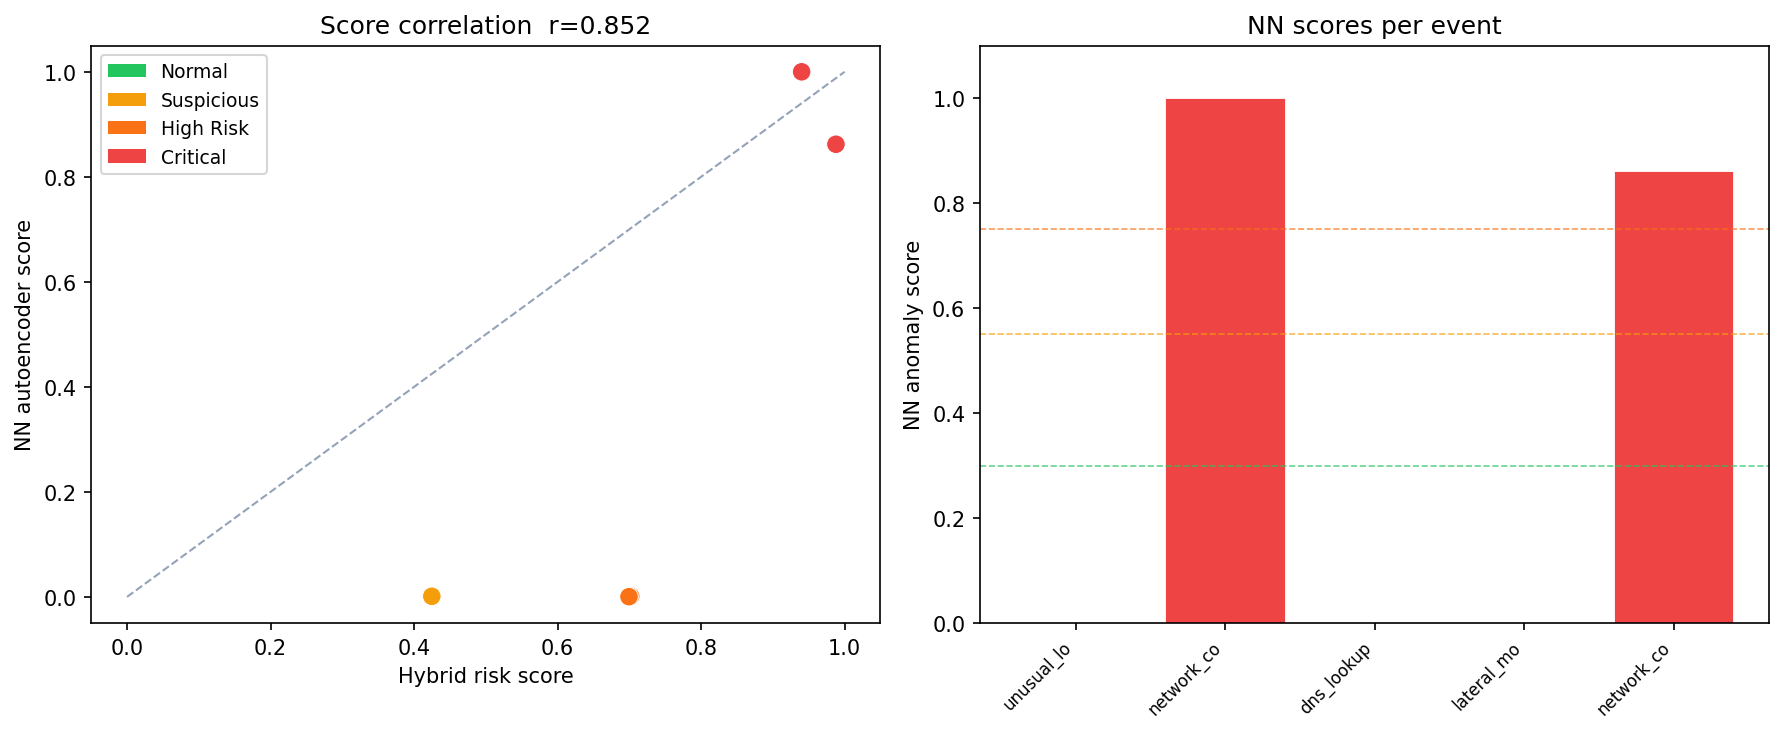
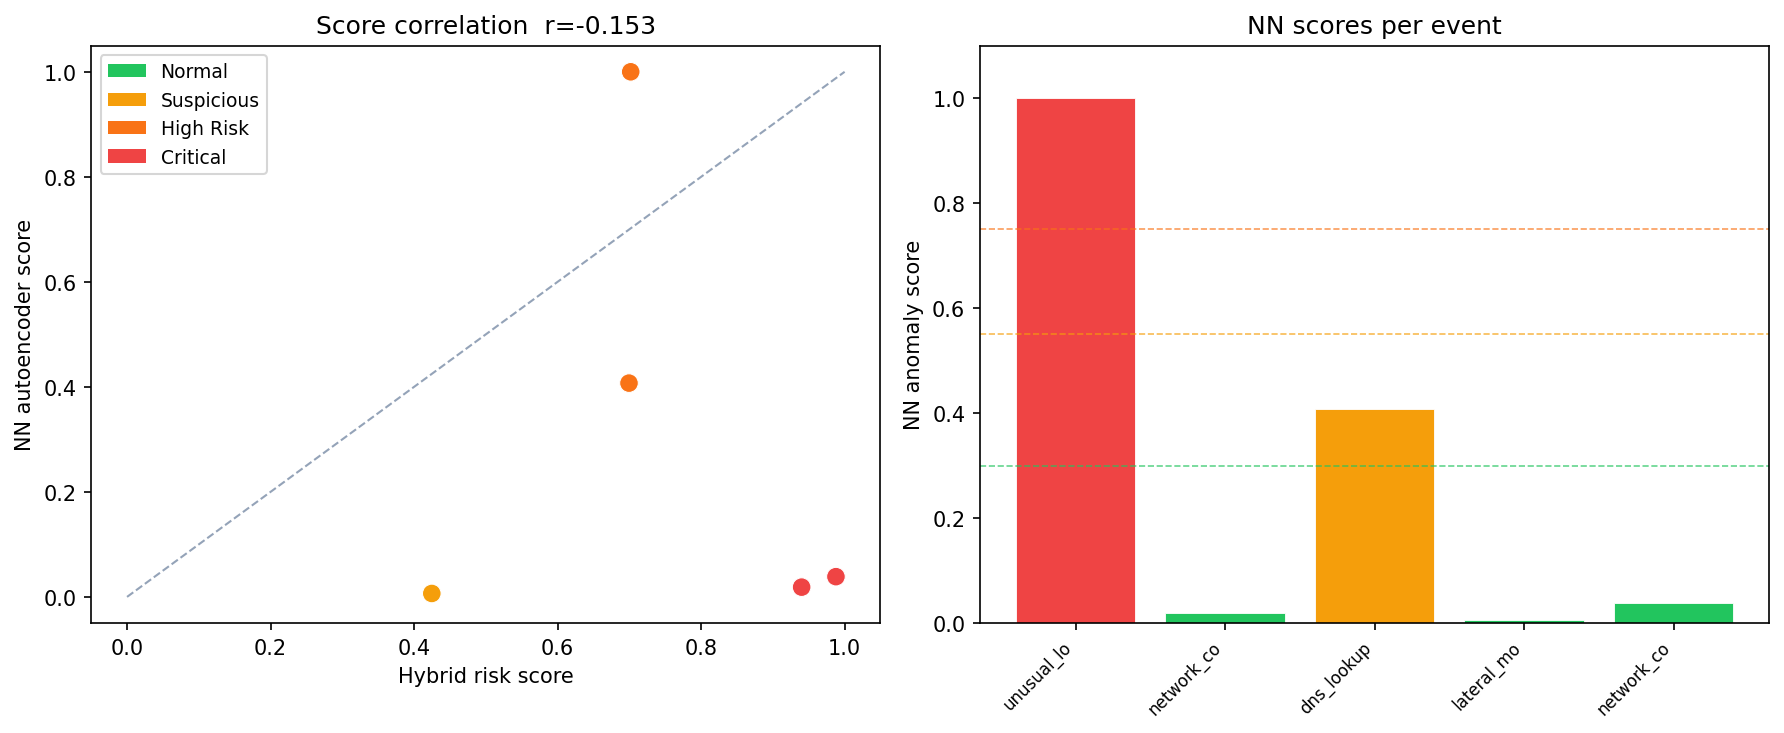
neural network model for network done

diff --git a/pirateshield/scripts/network_model/neural_network_validator.py b/pirateshield/scripts/network_model/neural_network_validator.py
@@ -1,18 +1,11 @@
 """
-PirateShield – Neural Network Validator
+
+PirateShield - Neural Network Validator
 =========================================
 Trains a PyTorch Autoencoder on your synthetic network events,
 then cross-validates its anomaly scores against the existing
-3-layer hybrid model (SARIMA + DBSCAN + PCA).
+3-layer hybrid model (SARIMA + DBSCAN + PCA)
 
-Run:
-    pip install torch scikit-learn numpy pandas statsmodels --break-system-packages
-    python3 neural_network_validator.py
-
-Output:
-    - Prints per-event comparison table
-    - Saves nn_risk_scores.json alongside network_risk_scores.json
-    - Plots correlation between NN and hybrid scores (if matplotlib available)
 """
 
 import json
@@ -24,28 +17,20 @@ import pandas as pd
 from sklearn.preprocessing import StandardScaler
 from sklearn.metrics import roc_auc_score, classification_report
 
-# ---------------------------------------------------------------------------
-# Resolve paths — works whether you run from scripts/network_model/ or root
-# ---------------------------------------------------------------------------
 SCRIPT_DIR = Path(__file__).resolve().parent
-# Try to auto-detect the project root by walking up for a 'data' directory
 def find_data_dir():
     candidate = SCRIPT_DIR
     for _ in range(6):
         if (candidate / "data").exists():
             return candidate / "data"
         candidate = candidate.parent
-    return SCRIPT_DIR / "data"   # fallback
+    return SCRIPT_DIR / "data"
 
 DATA_DIR    = find_data_dir()
 DATA_FILE   = DATA_DIR / "synthetic_events" / "synthetic_network_events.json"
 HYBRID_FILE = DATA_DIR / "risk_scores" / "network" / "network_risk_scores.json"
 NN_OUTPUT   = DATA_DIR / "risk_scores" / "network" / "neural_network_risk_scores.json"
 
-# ---------------------------------------------------------------------------
-# Import the existing model helpers (same directory as this script when
-# placed in scripts/network_model/, otherwise adjust the sys.path insert)
-# ---------------------------------------------------------------------------
 MODEL_DIR = SCRIPT_DIR
 if str(MODEL_DIR) not in sys.path:
     sys.path.insert(0, str(MODEL_DIR))
@@ -56,12 +41,9 @@ try:
     )
     HYBRID_AVAILABLE = True
 except ImportError:
-    print("[WARN] network_anomaly_model not found – hybrid scores will be loaded from JSON only")
+    print("[WARN] network_anomaly_model not found - hybrid scores will be loaded from JSON only")
     HYBRID_AVAILABLE = False
 
-# ---------------------------------------------------------------------------
-# PyTorch Autoencoder
-# ---------------------------------------------------------------------------
 try:
     import torch
     import torch.nn as nn
@@ -72,14 +54,13 @@ except ImportError:
     print("  pip install torch --break-system-packages")
     sys.exit(1)
 
-
 class Autoencoder(nn.Module):
     """
-    Simple fully-connected autoencoder.
+    Simple fully-connected autoencoder
     Architecture: 9 → 16 → 8 → 4 → 8 → 16 → 9
     Uses ReLU activations in hidden layers, sigmoid on the output
     (features are StandardScaler-normalised but we still benefit from
-    the bounded reconstruction for stability).
+    the bounded reconstruction for stability)
     """
     def __init__(self, input_dim: int = 9):
         super().__init__()
@@ -102,14 +83,13 @@ class Autoencoder(nn.Module):
     def forward(self, x):
         return self.decoder(self.encoder(x))
 
-
 def train_autoencoder(
     X_train: np.ndarray,
     epochs: int = 400,
     lr: float = 1e-3,
     batch_size: int = 8,
 ) -> tuple[Autoencoder, list[float]]:
-    """Train on the provided feature matrix and return (model, loss_history)."""
+    """Train on the provided feature matrix and return (model, loss_history)"""
     model = Autoencoder(input_dim=X_train.shape[1])
     optimizer = optim.Adam(model.parameters(), lr=lr)
     criterion = nn.MSELoss()
@@ -119,7 +99,6 @@ def train_autoencoder(
 
     model.train()
     for epoch in range(epochs):
-        # Mini-batch SGD
         perm = torch.randperm(len(tensor))
         epoch_loss = 0.0
         for i in range(0, len(tensor), batch_size):
@@ -134,9 +113,8 @@ def train_autoencoder(
 
     return model, losses
 
-
 def reconstruction_scores(model: Autoencoder, X: np.ndarray) -> np.ndarray:
-    """Per-sample MSE reconstruction error, normalised to [0, 1]."""
+    """Per-sample MSE reconstruction error, normalised to [0, 1]"""
     model.eval()
     with torch.no_grad():
         tensor = torch.tensor(X, dtype=torch.float32)
@@ -145,16 +123,11 @@ def reconstruction_scores(model: Autoencoder, X: np.ndarray) -> np.ndarray:
     max_err = errors.max() if errors.max() > 0 else 1.0
     return np.clip(errors / max_err, 0, 1)
 
-
-# ---------------------------------------------------------------------------
-# Main
-# ---------------------------------------------------------------------------
 def main():
     print("=" * 62)
-    print("PirateShield – Neural Network Validator")
+    print("PirateShield - Neural Network Validator")
     print("=" * 62)
 
-    # 1. Load events --------------------------------------------------------
     if not DATA_FILE.exists():
         print(f"[ERROR] Data file not found: {DATA_FILE}")
         print("Make sure DATA_FILE points to your synthetic_network_events.json")
@@ -164,14 +137,12 @@ def main():
         events = json.load(f)
     print(f"\nLoaded {len(events)} events from {DATA_FILE.name}")
 
-    # 2. Feature extraction -------------------------------------------------
     if HYBRID_AVAILABLE:
         df = events_to_dataframe(events)
         df = compute_risk_scores(df)
         hybrid_scores = df["risk_score"].values
         hybrid_labels = df["risk_label"].values
     else:
-        # Fall back to the saved JSON
         if not HYBRID_FILE.exists():
             print(f"[ERROR] Hybrid scores file not found: {HYBRID_FILE}")
             sys.exit(1)
@@ -180,7 +151,6 @@ def main():
         hybrid_scores = np.array([r["risk_score"] for r in saved])
         hybrid_labels = np.array([r["risk_label"] for r in saved])
 
-        # Rebuild df for feature extraction only
         import importlib
         try:
             mod = importlib.import_module("network_anomaly_model")
@@ -189,23 +159,17 @@ def main():
             print("[ERROR] Cannot import network_anomaly_model for features")
             sys.exit(1)
 
-    # 3. Scale features -----------------------------------------------------
     features = df[FEATURE_COLS].values.astype(float)
     scaler = StandardScaler()
     X = scaler.fit_transform(features)
 
-    # 4. Train autoencoder on ALL data
-    #    In production you'd train only on "Normal" events so the AE learns
-    #    what normal looks like – here we use all since the dataset is small.
     print("\nTraining autoencoder …", end=" ", flush=True)
     model, loss_history = train_autoencoder(X, epochs=500, lr=5e-4, batch_size=4)
     final_loss = loss_history[-1]
     print(f"done  (final MSE loss: {final_loss:.6f})")
 
-    # 5. Score every event --------------------------------------------------
     nn_scores = reconstruction_scores(model, X)
 
-    # 6. Comparison table ---------------------------------------------------
     label_order = {"Normal": 0, "Suspicious": 1, "High Risk": 2, "Critical": 3}
 
     def classify(score: float) -> str:
@@ -225,7 +189,6 @@ def main():
         n_score = nn_scores[i]
         h_label = hybrid_labels[i]
         n_label = nn_labels[i]
-        # Agreement: within one tier
         h_tier = label_order.get(h_label, 0)
         n_tier = label_order.get(n_label, 0)
         agree = abs(h_tier - n_tier) <= 1
@@ -238,7 +201,6 @@ def main():
     pct = agree_count / len(df) * 100
     print(f"\nAgreement (within 1 tier): {agree_count}/{len(df)} = {pct:.1f}%")
 
-    # 7. Correlation --------------------------------------------------------
     correlation = np.corrcoef(hybrid_scores, nn_scores)[0, 1]
     print(f"Pearson correlation (hybrid vs NN): {correlation:.4f}")
 
@@ -249,8 +211,6 @@ def main():
     else:
         print("  → Low agreement — consider retraining on more labelled data")
 
-    # 8. Pseudo-AUC using hybrid labels as ground truth --------------------
-    # Treat Critical + High Risk as positive class
     y_true = np.array([1 if l in ("High Risk", "Critical") else 0 for l in hybrid_labels])
     if y_true.sum() > 0 and y_true.sum() < len(y_true):
         auc = roc_auc_score(y_true, nn_scores)
@@ -258,7 +218,6 @@ def main():
         if auc >= 0.75:
             print("  → NN can independently detect High/Critical events ✓")
 
-    # 9. Save NN scores -----------------------------------------------------
     output = []
     for i, row in df.iterrows():
         output.append({
@@ -278,7 +237,6 @@ def main():
         json.dump(output, f, indent=2)
     print(f"\nNN scores saved → {NN_OUTPUT}")
 
-    # 10. Optional plot -----------------------------------------------------
     try:
         import matplotlib.pyplot as plt
         import matplotlib.colors as mcolors
@@ -293,7 +251,6 @@ def main():
 
         fig, axes = plt.subplots(1, 2, figsize=(12, 5))
 
-        # Scatter: hybrid vs NN
         ax = axes[0]
         ax.scatter(hybrid_scores, nn_scores, c=colors, s=80, edgecolors="white", linewidths=0.5)
         ax.plot([0, 1], [0, 1], "--", color="#94a3b8", linewidth=1, label="y=x")
@@ -307,7 +264,6 @@ def main():
         legend_elements = [Patch(facecolor=v, label=k) for k, v in color_map.items()]
         ax.legend(handles=legend_elements, fontsize=9, loc="upper left")
 
-        # Bar: NN score per event
         ax2 = axes[1]
         xticks = range(len(df))
         bar_colors = [color_map[l] for l in nn_labels]
@@ -334,7 +290,6 @@ def main():
     print("\n" + "=" * 62)
     print("Validation complete.")
     print("=" * 62)
-
 
 if __name__ == "__main__":
     main()
